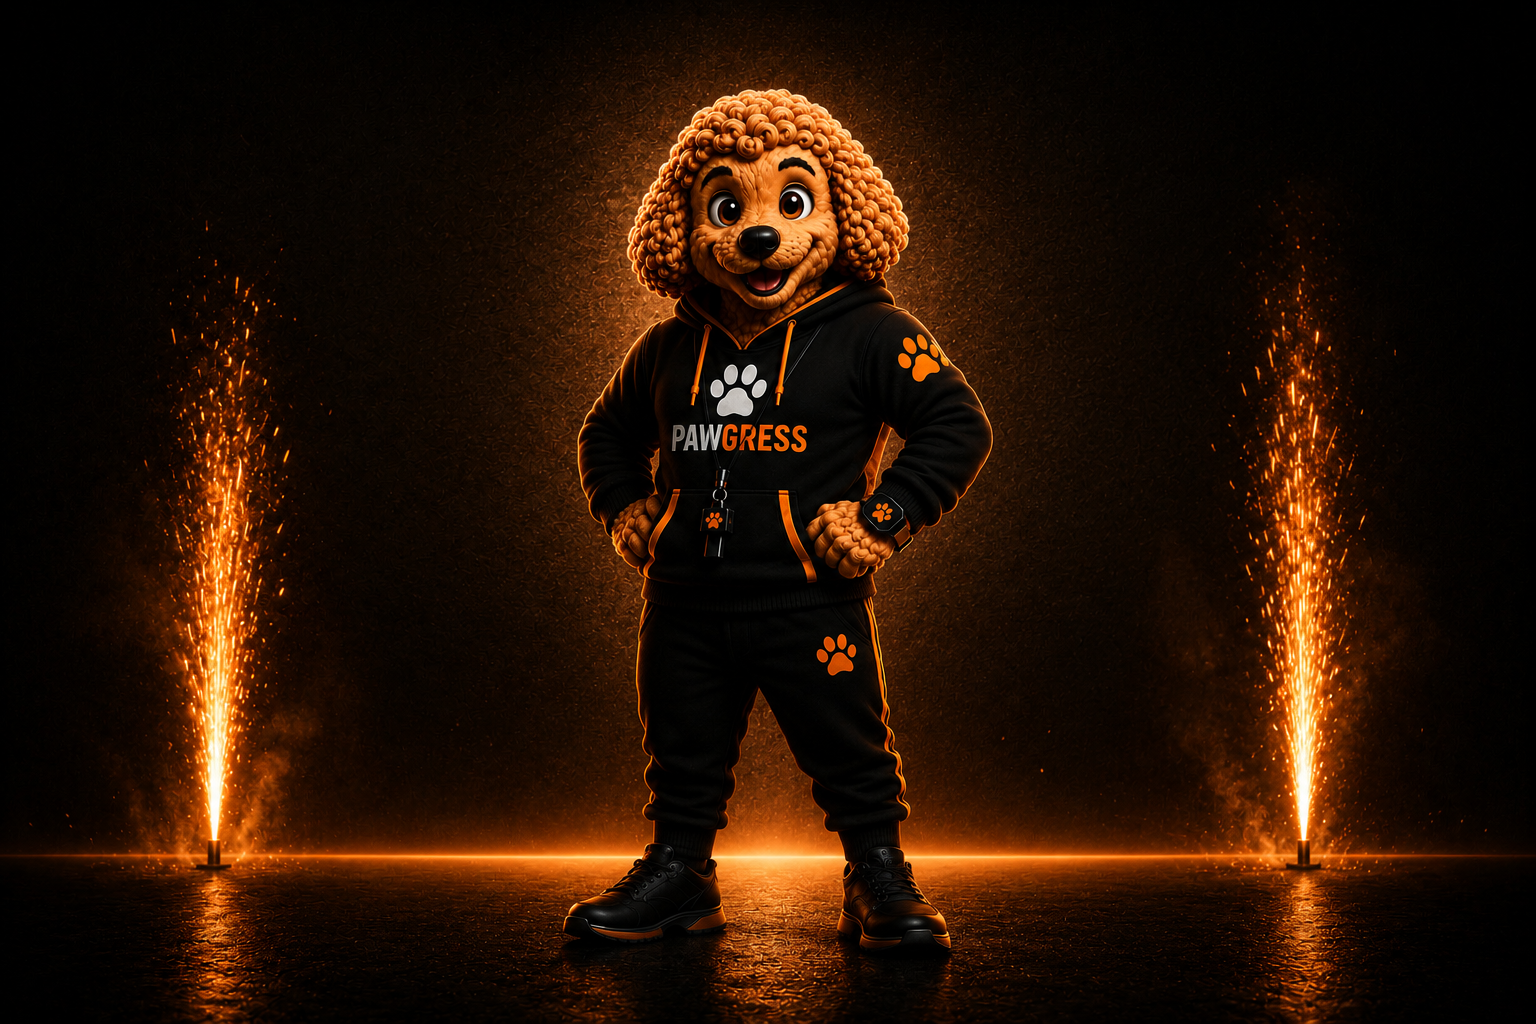
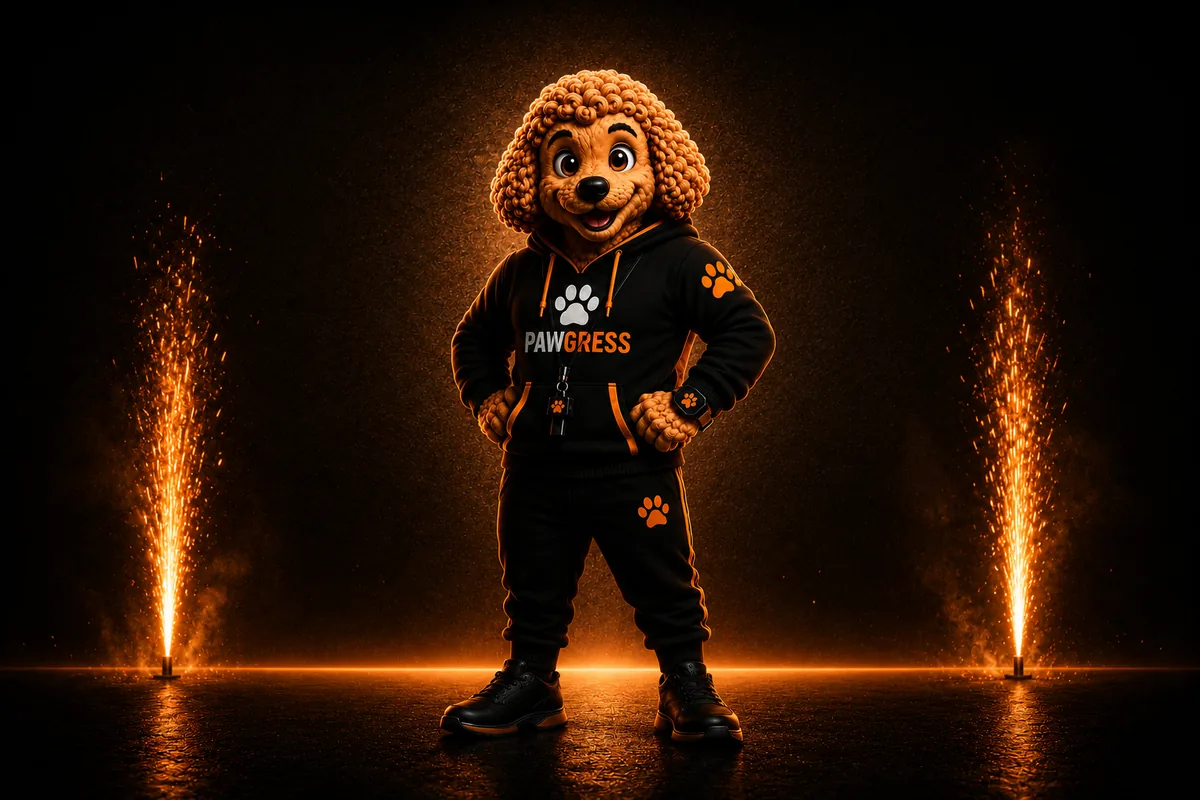
Add files via upload

diff --git a/src/screens/TrainingScreen.tsx b/src/screens/TrainingScreen.tsx
@@ -1,4 +1,4 @@
-import { useState, useRef } from "react";
+import { useState, useRef, useEffect } from "react";
 import { useNavigate } from "react-router-dom";
 import { PLAN_2ER_SPLIT, type PlanExercise } from "../data/plan_2er_split";
 import { AREA_DATA } from "../data/areaData";
@@ -190,13 +190,18 @@ function TrainingEditScreen({
   const touchDragIdx = useRef<number | null>(null);
   const coachImg = "/images/coach_bertl.webp";
 
-  // dayIndex=0 als Fallback – workoutStore braucht einen Index für setCustomExercises
   const FAKE_DAY_IDX = 0;
 
   function persist(list: PlanExercise[]) {
     setExercises(list);
     setCustomExercises(list, FAKE_DAY_IDX);
   }
+
+  // Sofort beim Mount die Auswahl in customExercises schreiben,
+  // damit startWorkout() immer die richtigen Übungen lädt
+  useEffect(() => {
+    setCustomExercises(selection.exercises, FAKE_DAY_IDX);
+  }, []);
 
   function onDragStart(i: number) { setDraggingIdx(i); }
   function onDragEnter(i: number) { dragOverIdx.current = i; }